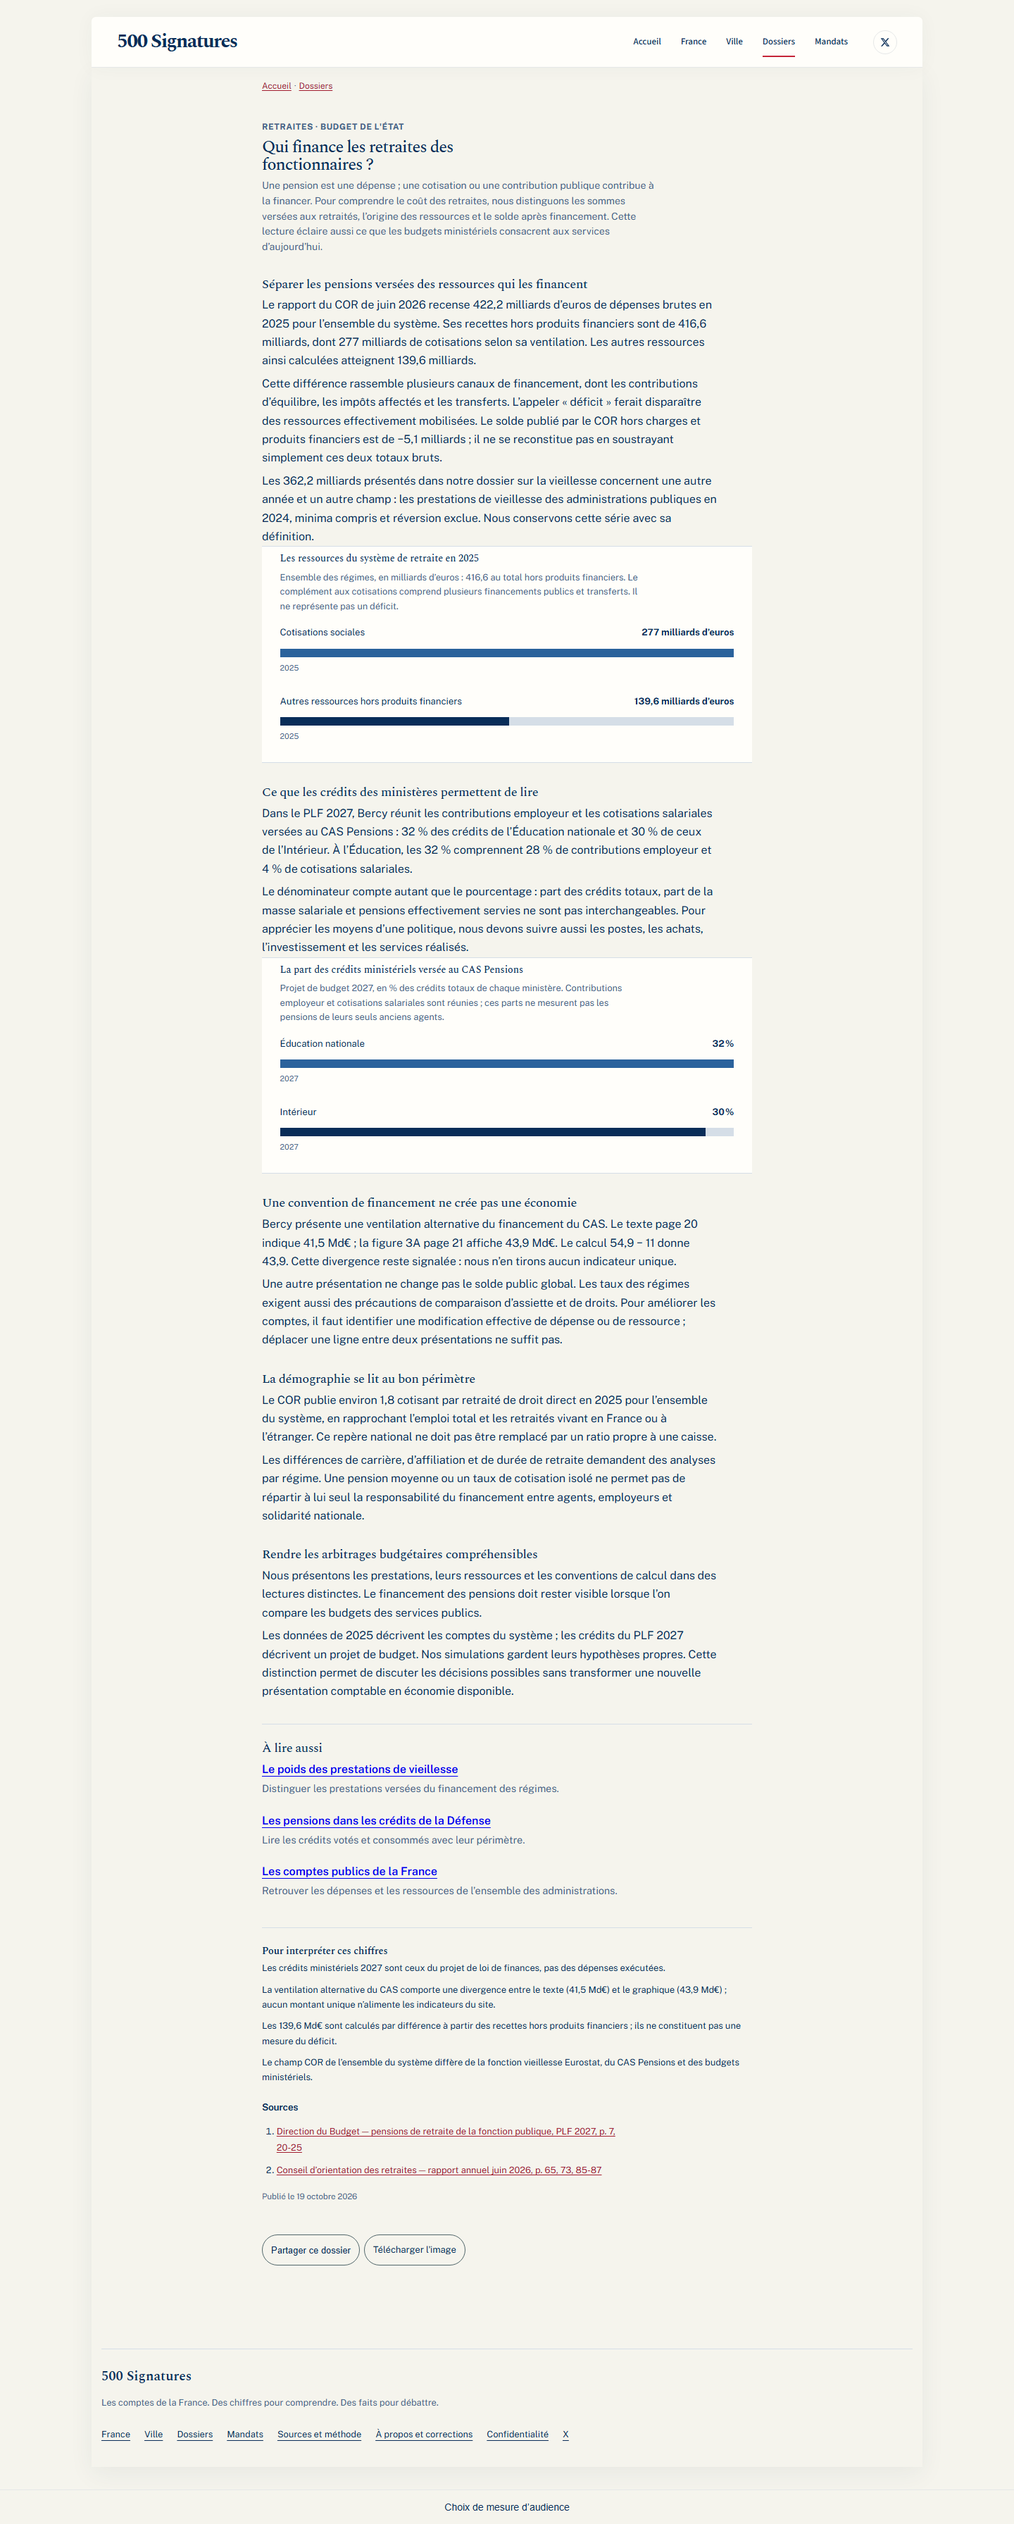
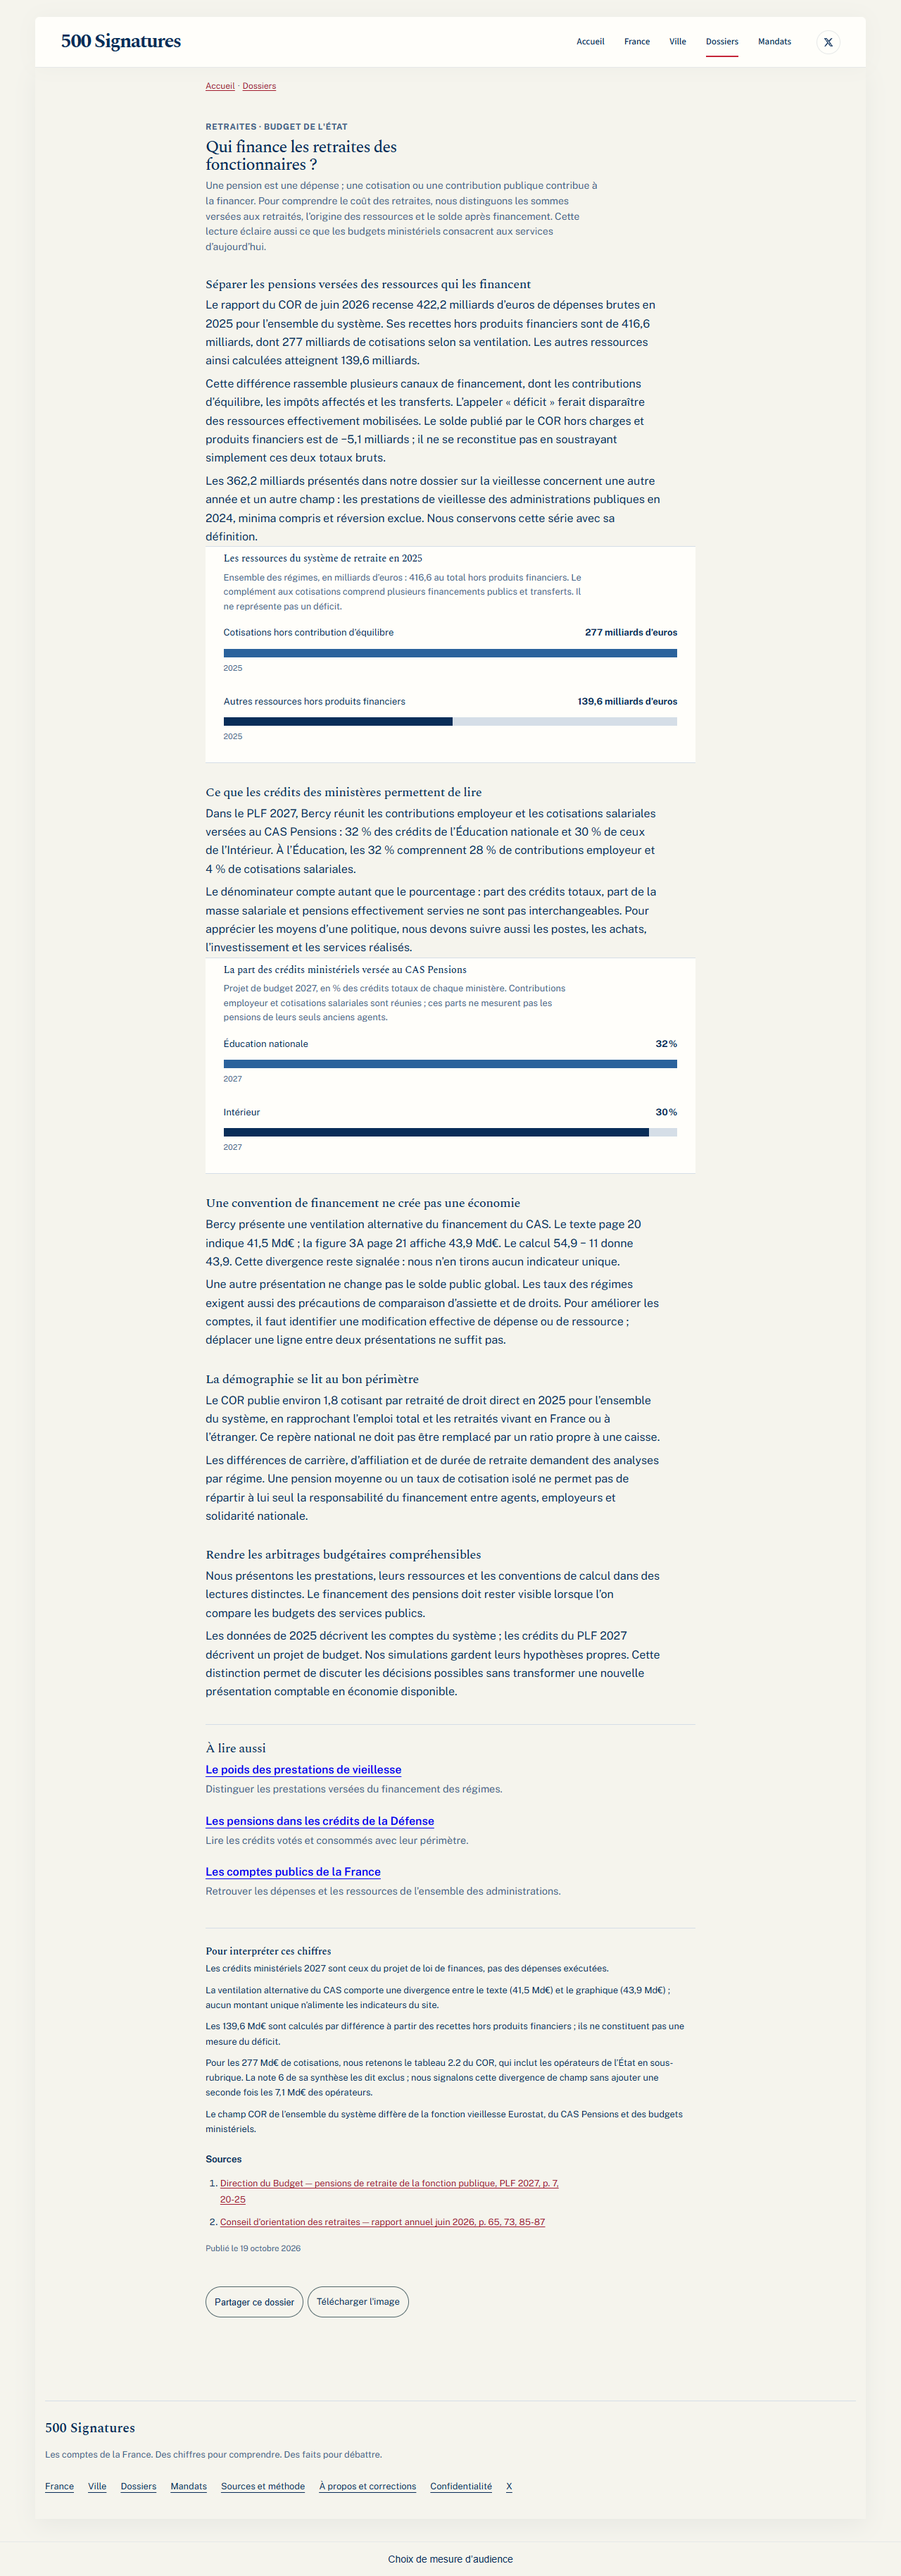
Préciser le champ COR et éviter le double comptage des opérateurs

diff --git a/docs/retraites-rapprochement-2026-10-19.md b/docs/retraites-rapprochement-2026-10-19.md
@@ -30,7 +30,7 @@ Champ : régimes français légalement obligatoires, FSV compris, hors RAFP. Il 
 | Dépenses brutes | 422,2 Md€ ; 14,1 % du PIB | Rapport p. 65 |
 | Prestations de base et complémentaires hors Aspa | 401 Md€ | p. 65 ; sous-totaux arrondis : droit direct 361, dérivé 39 |
 | Ressources hors produits financiers | 416,6 Md€ | p. 85 ; synthèse p. 9 : 417 arrondi |
-| Cotisations hors contribution d'équilibre et hors employeurs des opérateurs de l'État | 277 Md€ | p. 87 et note 6 de la synthèse |
+| Cotisations hors contribution d'équilibre, opérateurs inclus selon le tableau 2.2 | 277 Md€ | Tableau 2.2 p. 87 ; divergence avec la note 6 de la synthèse explicitée ci-dessous |
 | Autres ressources hors produits financiers | 139,6 Md€ | Calcul éditorial explicite : 416,6 − 277 ; contient fiscalité, contributions, transferts et autres produits |
 | Ressources avec produits financiers | 422,2 Md€ | p. 85 et tableau 2.2 p. 87 |
 | Solde hors charges et produits financiers | −5,1 Md€ | Synthèse p. 1 ; ne pas le recalculer depuis les seuls chiffres bruts arrondis |
@@ -38,7 +38,9 @@ Champ : régimes français légalement obligatoires, FSV compris, hors RAFP. Il 
 
 Le graphique de financement recommandé utilise **277 + 139,6 = 416,6 Md€**, avec un dénominateur hors produits financiers. La part calculée des cotisations est 66,5 %. Les 65,6 % publiés au tableau 2.2 utilisent le dénominateur **avec** produits financiers : ne pas mélanger les deux.
 
-Tableau 2.2, p. 87, en Md€ : cotisations 277 ; opérateurs 7,1 ; contributions d'équilibre 49,3 ; subventions 7,7 ; ITAF et CSG 64,7 ; transferts externes 16,5 ; produits financiers 5,6 ; autres produits 1,4. Somme des postes arrondis : 422,3, total publié : 422,2 ; écart d'arrondi de 0,1. Les sous-postes fiscaux et de transferts présentent également des arrondis. Aucune correction silencieuse.
+Tableau 2.2, p. 87, en Md€ : cotisations 277 ; contributions d'équilibre 49,3 ; subventions 7,7 ; ITAF et CSG 64,7 ; transferts externes 16,5 ; produits financiers 5,6 ; autres produits 1,4. Ces sept postes totalisent exactement 422,2 Md€ avec les valeurs publiées. Les 7,1 Md€ des opérateurs sont une sous-rubrique des 277 Md€ : les additionner au total créerait un double comptage. Les quatre sous-rubriques de cotisations totalisent 277,1 Md€ pour un agrégat arrondi à 277 ; les sous-postes fiscaux et de transferts présentent aussi des arrondis.
+
+La note 6 de la synthèse du COR décrit pourtant les 277 Md€ comme hors cotisations des employeurs opérateurs. Elle diverge du tableau 2.2 et de la somme de ses sous-rubriques. Le dossier retient explicitement le champ du tableau et signale la différence dans ses précautions ; aucun montant supplémentaire d’opérateurs n’est ajouté au graphique. Cette lecture remplace la première version du rapprochement, qui avait traité à tort cette sous-rubrique comme un poste supplémentaire.
 
 ## Démographie : ce que mesure le ratio
 

diff --git a/docs/reviews/retraites-2026-10-19/README.md b/docs/reviews/retraites-2026-10-19/README.md
@@ -15,6 +15,8 @@ Voir [le rapprochement et les empreintes des trois PDF archivés](../../retraite
 
 La divergence Bercy 41,5/43,9 reste visible et exclue de tout indicateur unique. Le complément de ressources COR est calculé explicitement par différence. Les financements ne sont pas additionnés aux prestations. Aucun taux FPE n’est appliqué au profil OCDE ou à l’ensemble des fonctionnaires.
 
+Le tableau 2.2 du COR est retenu explicitement : les 7,1 Md€ des opérateurs sont inclus en sous-rubrique dans les 277 Md€. La note 6 de la synthèse dit pourtant les opérateurs exclus ; cette divergence de champ est signalée au lecteur. Le premier rapprochement avait compté cette sous-rubrique comme un agrégat supplémentaire : cette erreur a été corrigée, puis chaque somme a été recomptée à partir des PDF par deux relectures distinctes. Les valeurs des graphiques sont restées inchangées.
+
 ## Contrôles reproductibles
 
 Depuis `site/` :
